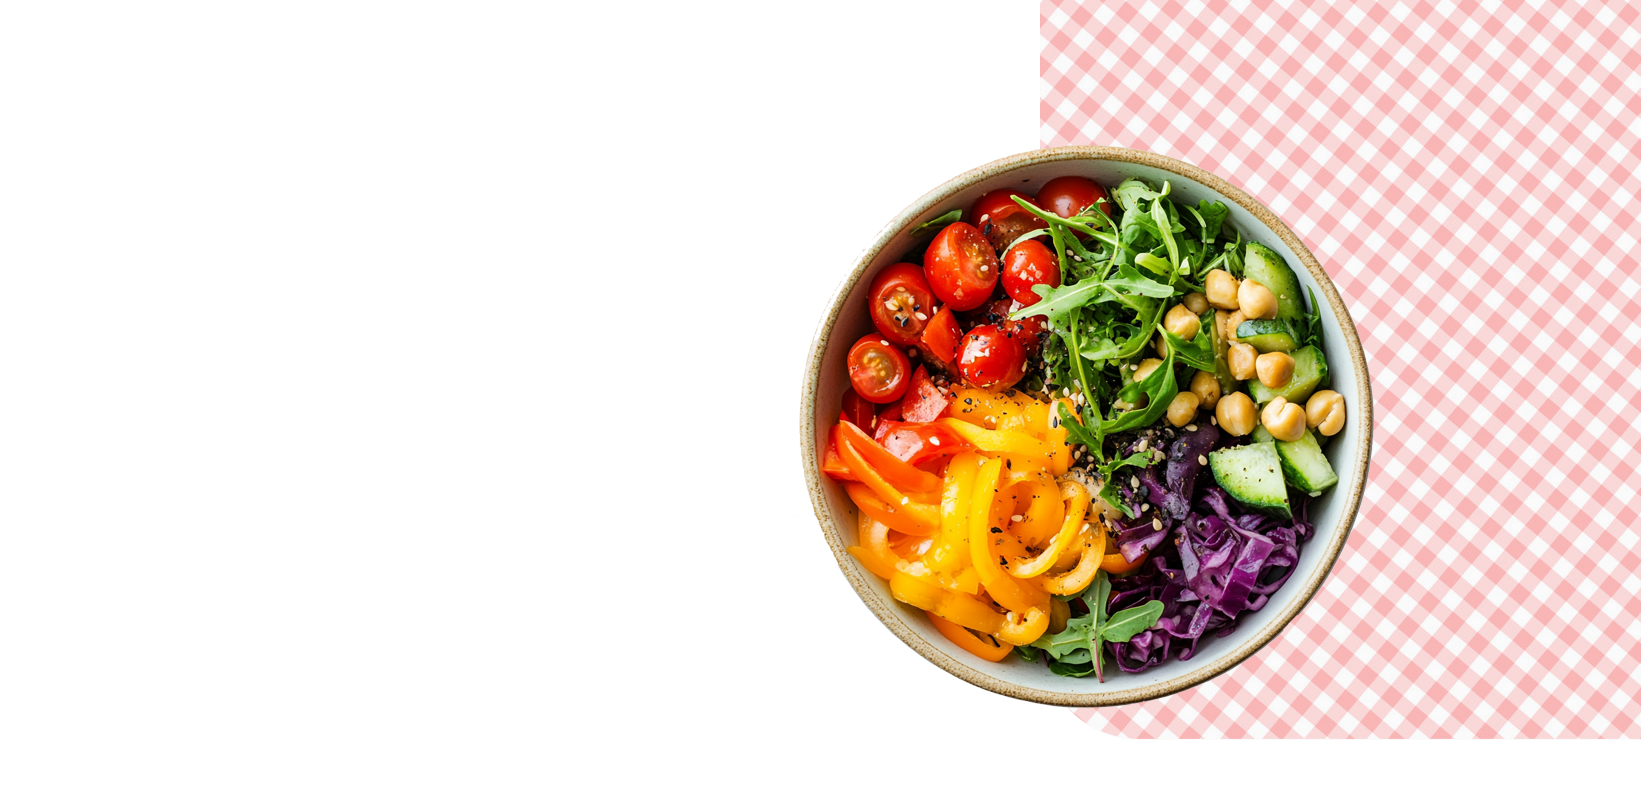
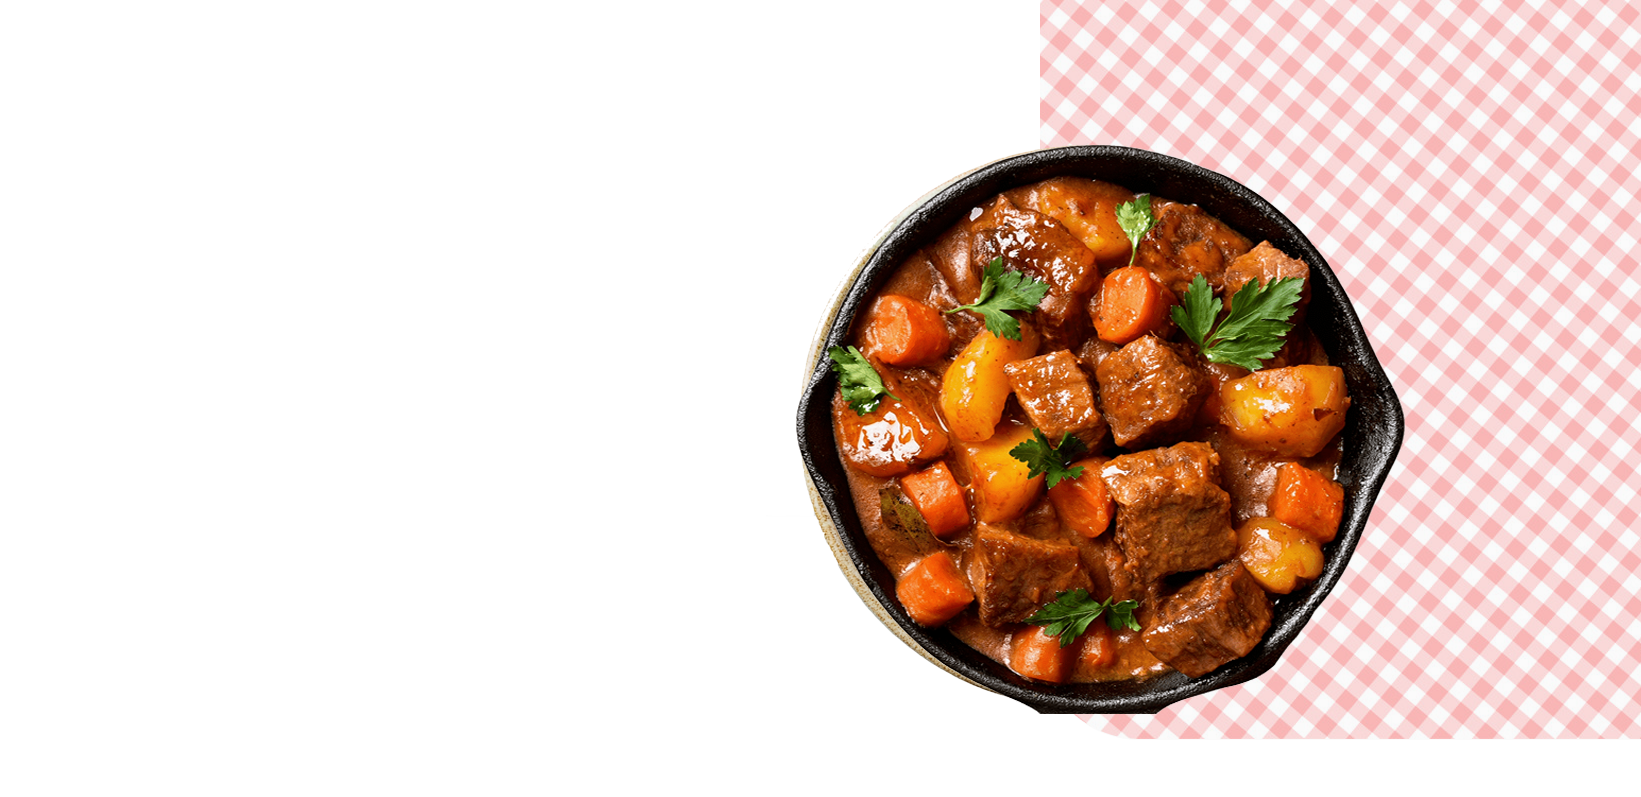
imagenes

Changed region(s): [[0.4662, 0.1807, 0.8702, 0.9034]]

diff --git a/src/components/shared/BackgroundLayers.tsx b/src/components/shared/BackgroundLayers.tsx
@@ -10,58 +10,17 @@ export default function BackgroundLayers() {
     setMounted(true);
   }, []);
 
-  // Solo renderizamos en el cliente para evitar errores de SSR
   if (!mounted) return null;
 
   return (
-    <div className="fixed inset-0 overflow-hidden pointer-events-none" style={{ zIndex: "-10" }}>
-      {/* Tomate - esquina inferior izquierda */}
-      <div className="absolute bottom-20 left-10 animate-float-slow">
-        <div className="relative" style={{ width: '160px', height: '160px' }}>
-          <Image
-            src="/tomate.png"
-            alt="tomate decorativo"
-            fill
-            style={{ opacity: 0.65 }}
-          />
-        </div>
-      </div>
-
-      {/* Palta - esquina derecha a media altura */}
-      <div className="absolute top-1/3 right-10 animate-float">
-        <div className="relative" style={{ width: '180px', height: '180px' }}>
-          <Image
-            src="/palta.png"
-            alt="palta decorativa"
-            fill
-            style={{ opacity: 0.65 }}
-          />
-        </div>
-      </div>
-
-      {/* Tomate rotado - esquina superior derecha */}
-      <div className="absolute top-20 right-20 animate-float-fast">
-        <div className="relative" style={{ width: '120px', height: '120px' }}>
-          <Image
-            src="/tomate.png"
-            alt="tomate decorativo"
-            fill
-            style={{ opacity: 0.65, transform: 'rotate(45deg)' }}
-          />
-        </div>
-      </div>
-
-      {/* Ají - esquina superior izquierda */}
-      <div className="absolute top-40 left-20 animate-float-slow">
-        <div className="relative" style={{ width: '140px', height: '140px' }}>
-          <Image
-            src="/aji.png"
-            alt="ají decorativo"
-            fill
-            style={{ opacity: 0.65 }}
-          />
-        </div>
-      </div>
+    <div className="fixed inset-0 -z-10">
+      <Image
+        src="/backgroundApp.png"
+        alt="Fondo de la app"
+        fill
+        priority
+        style={{ objectFit: 'cover', opacity: 0.2 }} // Podés ajustar la opacidad a gusto
+      />
     </div>
   );
 }
